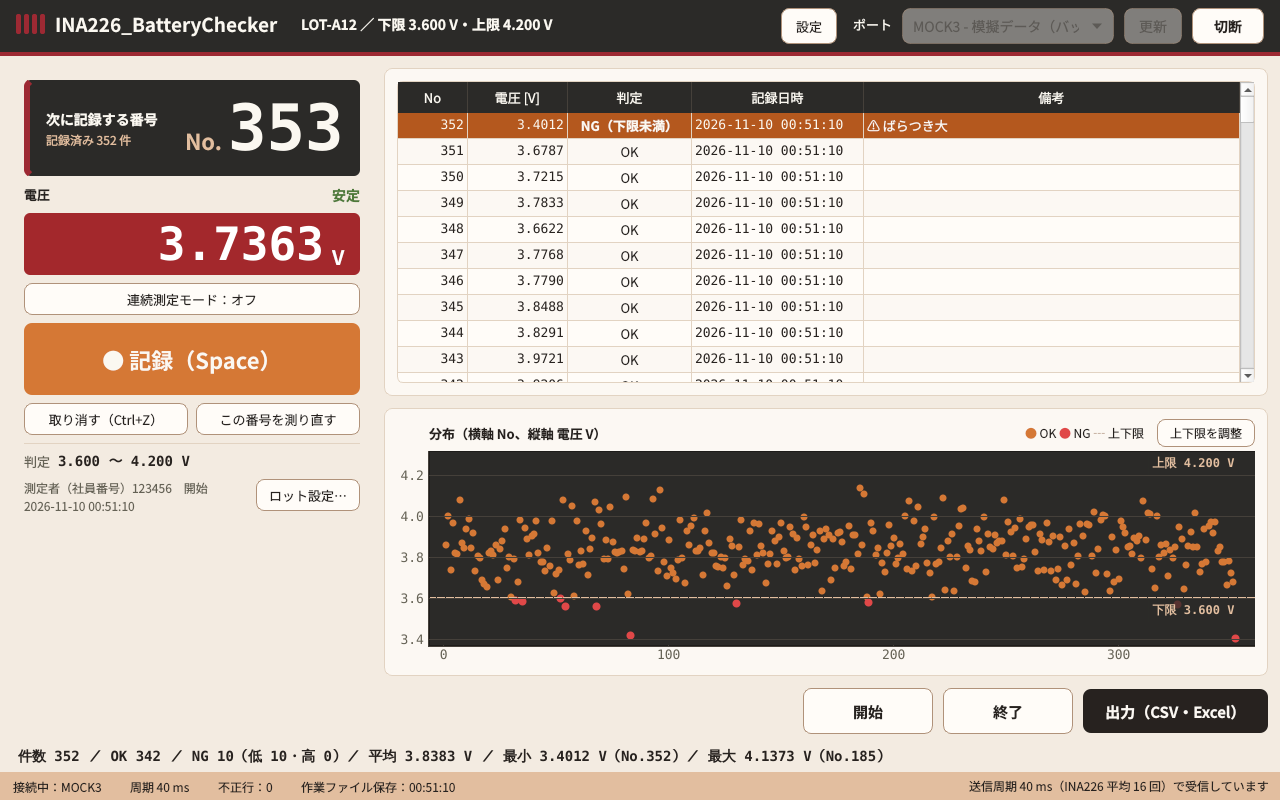
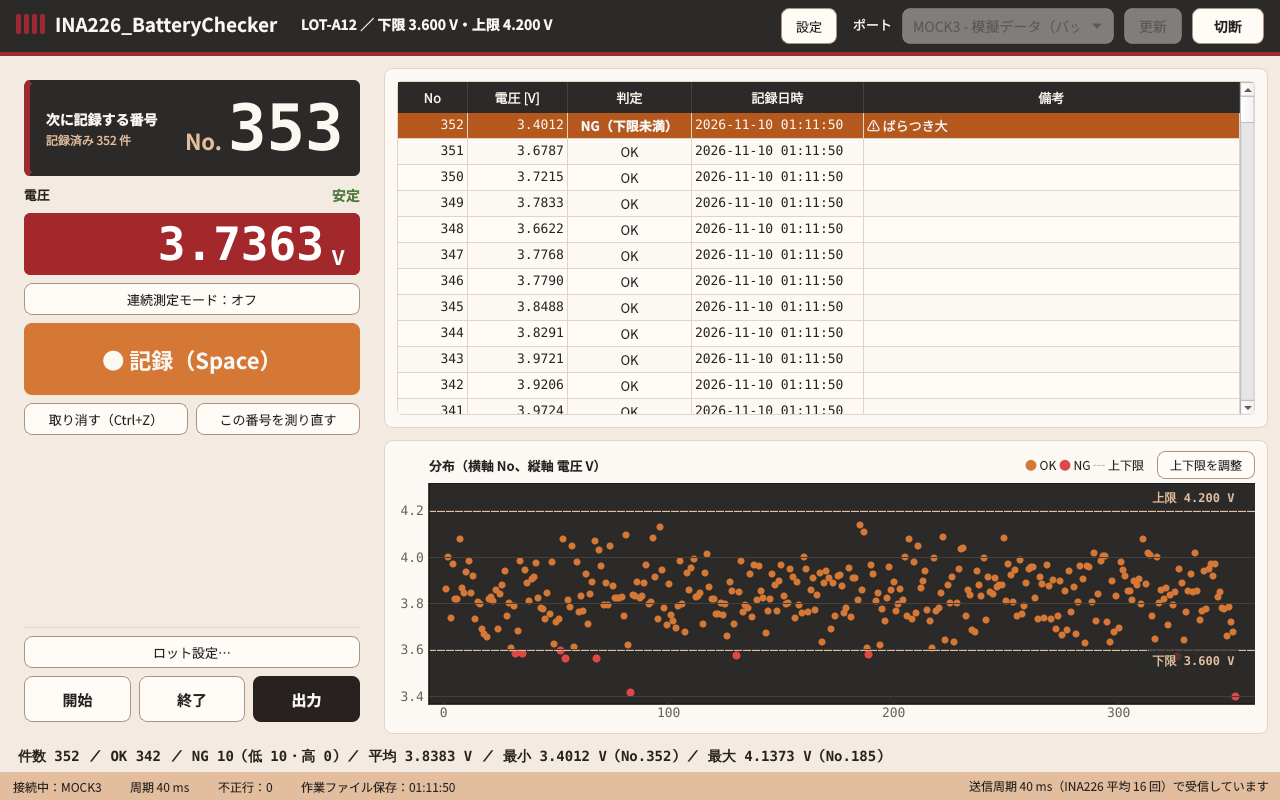
Layout: lot buttons bottom-left, simpler left panel, compact lot dialog
- 開始 / 終了 / 出力 move from the bottom-right into the empty space at the
  bottom of the left panel, with ロット設定… above them; the table and
  graph now use the full height on the right. 出力 label shortened
  (tooltip: CSV and Excel).
- Removed the 判定 range and the operator / start time lines from the left
  panel (the range is in the header and on the graph's limit lines).
- Lot dialog sizes to its content; メモ is a fixed 3 lines.
- First window size is fitted to the screen's available area (the bottom
  of the window could be hidden behind the taskbar).

Claude-Session: https://claude.ai/code/session_017w9UF8vd975PXdvssJUhCt

diff --git a/battery_checker/gui/main_window.py b/battery_checker/gui/main_window.py
@@ -61,7 +61,7 @@ from ..workfile import WorkFile, cleanup_finished, find_unfinished, finish_lot, 
 from .dialogs import ExportDialog, LotDialog, LotInput, SettingsDialog
 from .plot_panel import DistributionPlot
 from .record_table import RecordTablePanel
-from .widgets import ElideLabel, FitLabel, NumberCard, divider, sub_label
+from .widgets import ElideLabel, FitLabel, NumberCard, divider
 
 log = logging.getLogger(__name__)
 
@@ -132,8 +132,7 @@ class MainWindow(QMainWindow):
 
         self.setWindowTitle(f"{APP_NAME} v{__version__}")
         self.setWindowIcon(app_icon())
-        self.resize(1280, 800)
-        self.setMinimumSize(1024, 700)
+        self._fit_to_screen()
         self._build_ui()
 
         self.poll_timer = QTimer(self)
@@ -171,17 +170,6 @@ class MainWindow(QMainWindow):
         self.plot.limits_changed.connect(self.on_limits_dragged)
         right.addWidget(self.table, 55)
         right.addWidget(self.plot, 45)
-        actions = QHBoxLayout()
-        actions.setSpacing(10)
-        actions.addStretch(1)
-        # 右下のボタン：開始 → 終了 → 出力
-        self.new_lot_button = self._button("開始", "newLotButton", self.on_new_lot, 15)
-        self.end_lot_button = self._button("終了", "endLotButton", self.on_end_lot, 15)
-        self.export_button = self._button("出力（CSV・Excel）", "exportButton", self.on_export, 15)
-        for b in (self.new_lot_button, self.end_lot_button, self.export_button):
-            b.setMinimumWidth(130)
-            actions.addWidget(b)
-        right.addLayout(actions)
         body.addLayout(right, 1)
         root.addLayout(body, 1)
 
@@ -193,6 +181,21 @@ class MainWindow(QMainWindow):
         root.addWidget(self.summary_label)
         self.setCentralWidget(central)
         self._build_status_bar()
+
+    def _fit_to_screen(self) -> None:
+        """最初の大きさ：1280×800（タスクバーを除いた画面に収まらなければ縮める）。最小は 1024×700。"""
+        w, h, min_w, min_h = 1280, 800, 1024, 700
+        screen = QApplication.primaryScreen()
+        if screen is not None:
+            avail = screen.availableGeometry()
+            w, h = min(w, avail.width() - 40), min(h, avail.height() - 40)
+            min_w, min_h = min(min_w, w), min(min_h, h)
+            self.setMinimumSize(min_w, min_h)
+            self.resize(w, h)
+            self.move(avail.center().x() - w // 2, avail.center().y() - (h + 32) // 2)
+        else:
+            self.setMinimumSize(min_w, min_h)
+            self.resize(w, h)
 
     def _button(self, text: str, name: str, slot, px: int = 14, bold: bool = True) -> QPushButton:
         b = QPushButton(text)
@@ -313,22 +316,27 @@ class MainWindow(QMainWindow):
             row.addWidget(b, 1)
         lay.addLayout(row)
 
-        # 7. 下限・上限
-        lay.addWidget(divider())
-        row = QHBoxLayout()
-        self.limits_label = QLabel()
-        self.limits_label.setFont(mono_font(14, bold=True))
-        row.addWidget(sub_label("判定"))
-        row.addWidget(self.limits_label, 1)
-        lay.addLayout(row)
-        row = QHBoxLayout()
-        self.lot_detail_label = sub_label("", 12)
-        self.lot_detail_label.setWordWrap(True)
-        row.addWidget(self.lot_detail_label, 1)
-        self.lot_settings_button = self._button("ロット設定…", "lotSettingsButton", self.on_lot_settings, 13, bold=False)
-        row.addWidget(self.lot_settings_button, 0, Qt.AlignTop)
-        lay.addLayout(row)
+        # 7. ロットの操作（左下）：ロット設定、開始 → 終了 → 出力
         lay.addStretch(1)
+        lay.addWidget(divider())
+        self.lot_settings_button = self._button("ロット設定…", "lotSettingsButton", self.on_lot_settings, 13, bold=False)
+        self.lot_settings_button.setMinimumHeight(36)
+        self.lot_settings_button.setToolTip("ロット名・測定者・上下限・メモを変えます")
+        lay.addWidget(self.lot_settings_button)
+        row = QHBoxLayout()
+        row.setSpacing(8)
+        self.new_lot_button = self._button("開始", "newLotButton", self.on_new_lot, 15)
+        self.end_lot_button = self._button("終了", "endLotButton", self.on_end_lot, 15)
+        self.export_button = self._button("出力", "exportButton", self.on_export, 15)
+        self.new_lot_button.setToolTip("新しいロットを始めます")
+        self.end_lot_button.setToolTip("ロットを終了します（CSV・Excel に出力するか聞きます）")
+        self.export_button.setToolTip("CSV と Excel に出力します（ロットは終了しません）")
+        for b in (self.new_lot_button, self.end_lot_button, self.export_button):
+            b.setFixedHeight(46)
+            b.setSizePolicy(QSizePolicy.Ignored, QSizePolicy.Fixed)
+            b.setMinimumWidth(0)
+            row.addWidget(b, 1)
+        lay.addLayout(row)
 
         scroll = QScrollArea()
         scroll.setObjectName("leftScroll")
@@ -501,16 +509,11 @@ class MainWindow(QMainWindow):
         """ロットが変わったとき：ヘッダー・判定・一覧・グラフ・集計を描き直す。"""
         lot, book = self.lot, self.book
         if lot is None or book is None:
-            self.lot_label.setText("ロットなし")
-            self.limits_label.setText("---")
-            self.lot_detail_label.setText("「開始」でロットを始めます")
+            self.lot_label.setText("ロットなし（左下の「開始」で始めます）")
             self.table.model.set_book(RecordBook())
             self.plot.set_limits(None, None)
         else:
             self.lot_label.setText(f"{lot.lot_name} ／ {lot.limits_text()}")
-            self.limits_label.setText(f"{lot.lower_V:.3f} 〜 {lot.upper_V:.3f} V")
-            who = f"測定者（社員番号）{lot.operator}　" if lot.operator else ""
-            self.lot_detail_label.setText(f"{who}開始 {lot.started_at}")
             self.table.model.set_book(book)
             self.plot.set_limits(lot.lower_V, lot.upper_V)
             self.table.select_no(book.last.no if book.last else None)

diff --git a/tests/test_gui.py b/tests/test_gui.py
@@ -109,7 +109,7 @@ def test_initial_button_states(make_window, qapp):
     assert not w.export_button.isEnabled() and not w.end_lot_button.isEnabled()
     assert w.new_lot_button.isEnabled() and w.connect_button.isEnabled() and w.port_combo.isEnabled()
     assert w.connect_button.text() == "接続"
-    assert w.lot_label.text() == "ロットなし"
+    assert w.lot_label.text().startswith("ロットなし")
     assert w.number_card.number == "---" and w.number_card.property("mode") == "none"
 
 
@@ -369,7 +369,7 @@ def test_export_and_end_lot(make_window, qapp, tmp_path):
     w.answers = ["no"]
     assert w.on_end_lot()
     assert "CSV・Excel 出力しますか？" in w.asked[-1]
-    assert w.lot is None and w.lot_label.text() == "ロットなし"
+    assert w.lot is None and w.lot_label.text().startswith("ロットなし")
     from battery_checker.workfile import find_unfinished
 
     assert find_unfinished(w.paths.lots_dir) == []
@@ -811,9 +811,13 @@ def test_lot_dialog_field_order(qapp):
 def test_bottom_buttons_labels_and_order(make_window, qapp):
     w = make_window()
     buttons = [w.new_lot_button, w.end_lot_button, w.export_button]
-    assert [b.text() for b in buttons] == ["開始", "終了", "出力（CSV・Excel）"]
+    assert [b.text() for b in buttons] == ["開始", "終了", "出力"]
     xs = [b.mapTo(w, b.rect().topLeft()).x() for b in buttons]
     assert xs == sorted(xs)  # 左から 開始 → 終了 → 出力
+    # 左パネルの一番下（記録ボタンより下）にある
+    ys = [b.mapTo(w, b.rect().topLeft()).y() for b in buttons]
+    assert min(ys) > w.record_button.mapTo(w, w.record_button.rect().topLeft()).y()
+    assert all(w.left_scroll.isAncestorOf(b) for b in buttons)
 
 
 def test_end_asks_export_yes_exports_then_ends(make_window, qapp, tmp_path):

diff --git a/battery_checker/gui/dialogs.py b/battery_checker/gui/dialogs.py
@@ -266,10 +266,11 @@ class LotDialog(QDialog):
         super().__init__(parent)
         self.editing = editing
         self.setWindowTitle("ロット設定" if editing else "新しいロット")
-        self.setMinimumWidth(460)
+        self.setMinimumWidth(480)
         lay = QVBoxLayout(self)
         lay.setContentsMargins(18, 16, 18, 12)
         lay.setSpacing(10)
+        lay.setSizeConstraint(QVBoxLayout.SetFixedSize)  # 中身の大きさに合わせる（メモ欄が間延びしない）
 
         grid = QGridLayout()
         grid.setHorizontalSpacing(10)
@@ -300,7 +301,7 @@ class LotDialog(QDialog):
         self.start_spin.setEnabled(not editing)
         self.memo_edit = QPlainTextEdit(initial.memo)
         self.memo_edit.setFont(ui_font(14))
-        self.memo_edit.setMinimumHeight(QFontMetrics(self.memo_edit.font()).lineSpacing() * 3 + 18)
+        self.memo_edit.setFixedHeight(QFontMetrics(self.memo_edit.font()).lineSpacing() * 3 + 18)  # 3 行
         self.memo_edit.setTabChangesFocus(True)
 
         # 並び：ロット名 → 開始番号 → 測定者 → 電圧（下限・上限・バー） → メモ

diff --git a/README.md b/README.md
@@ -14,7 +14,7 @@
 
 1. Arduino と INA226 を USB で PC に繋ぎ、`INA226_BatteryChecker.exe` を起動します
 2. ヘッダー右のポートを選び「接続」（ステータス欄に「周期 40 ms」と出れば準備完了）
-3. 右下の「開始」→ ロット名・開始番号・測定者の社員番号・下限・上限（・メモ）を入れて「開始」（前回の値が入っています）。
+3. 左下の「開始」→ ロット名・開始番号・測定者の社員番号・下限・上限（・メモ）を入れて「開始」（前回の値が入っています）。
    測定者は名前ではなく**社員番号**（半角の英数字とハイフン、20 文字まで）を入れます。全角で打った数字は半角に直します
    下限・上限は、数字を入れるほか、その下のバーのつまみ（左＝下限、右＝上限）をドラッグしても変えられます（0.01 V 刻み。矢印キーで 0.001 V）
 4. 左上の大きな番号（次に記録する番号）を確かめ、バッテリを INA226 の測定端子に繋ぐ → 電圧の横が「安定」になったら **Space**（または Enter、「● 記録」ボタン）
@@ -22,8 +22,8 @@
    NG のときは「NG です：No.12　3.4012 V（下限未満。下限 3.600 V）」という注意ウィンドウが出ます。
    「記録する」（Enter）で NG として記録、「もう一度測定」（Esc）で記録せずにその場で測り直します（また NG なら再び聞きます）
 6. 間違えたら「取り消す」（**Ctrl+Z**。最後の 1 件を取り消す）、または一覧で番号を選んで「この番号を測り直す」→ そのバッテリを繋いで記録（やめるときは Esc）
-7. 全部終わったら右下の「終了」→「CSV・Excel 出力しますか？」に「はい」→ 保存先フォルダとファイル名を確かめて「保存」→ CSV と xlsx ができて、ロットが終わります（「いいえ」なら出力せずに終了、「キャンセル」なら終了しません）。
-   途中で出力だけしたいときは「出力（CSV・Excel）」（出力のあと、ロットを終了するか聞きます）。右下のボタンは「開始」「終了」「出力」の順です。
+7. 全部終わったら左下の「終了」→「CSV・Excel 出力しますか？」に「はい」→ 保存先フォルダとファイル名を確かめて「保存」→ CSV と xlsx ができて、ロットが終わります（「いいえ」なら出力せずに終了、「キャンセル」なら終了しません）。
+   途中で出力だけしたいときは「出力」（出力のあと、ロットを終了するか聞きます）。左下のボタンは「開始」「終了」「出力」の順で、その上に「ロット設定…」があります。
    ファイル名の初期値は `<ロット名>_<番号始め>-<番号終わり>_電圧記録_<日付>`（例：`LOT-A12_0001-0352_電圧記録_20261109`。番号は 4 桁）で、変えることもできます
 
 ### 画面の表示
